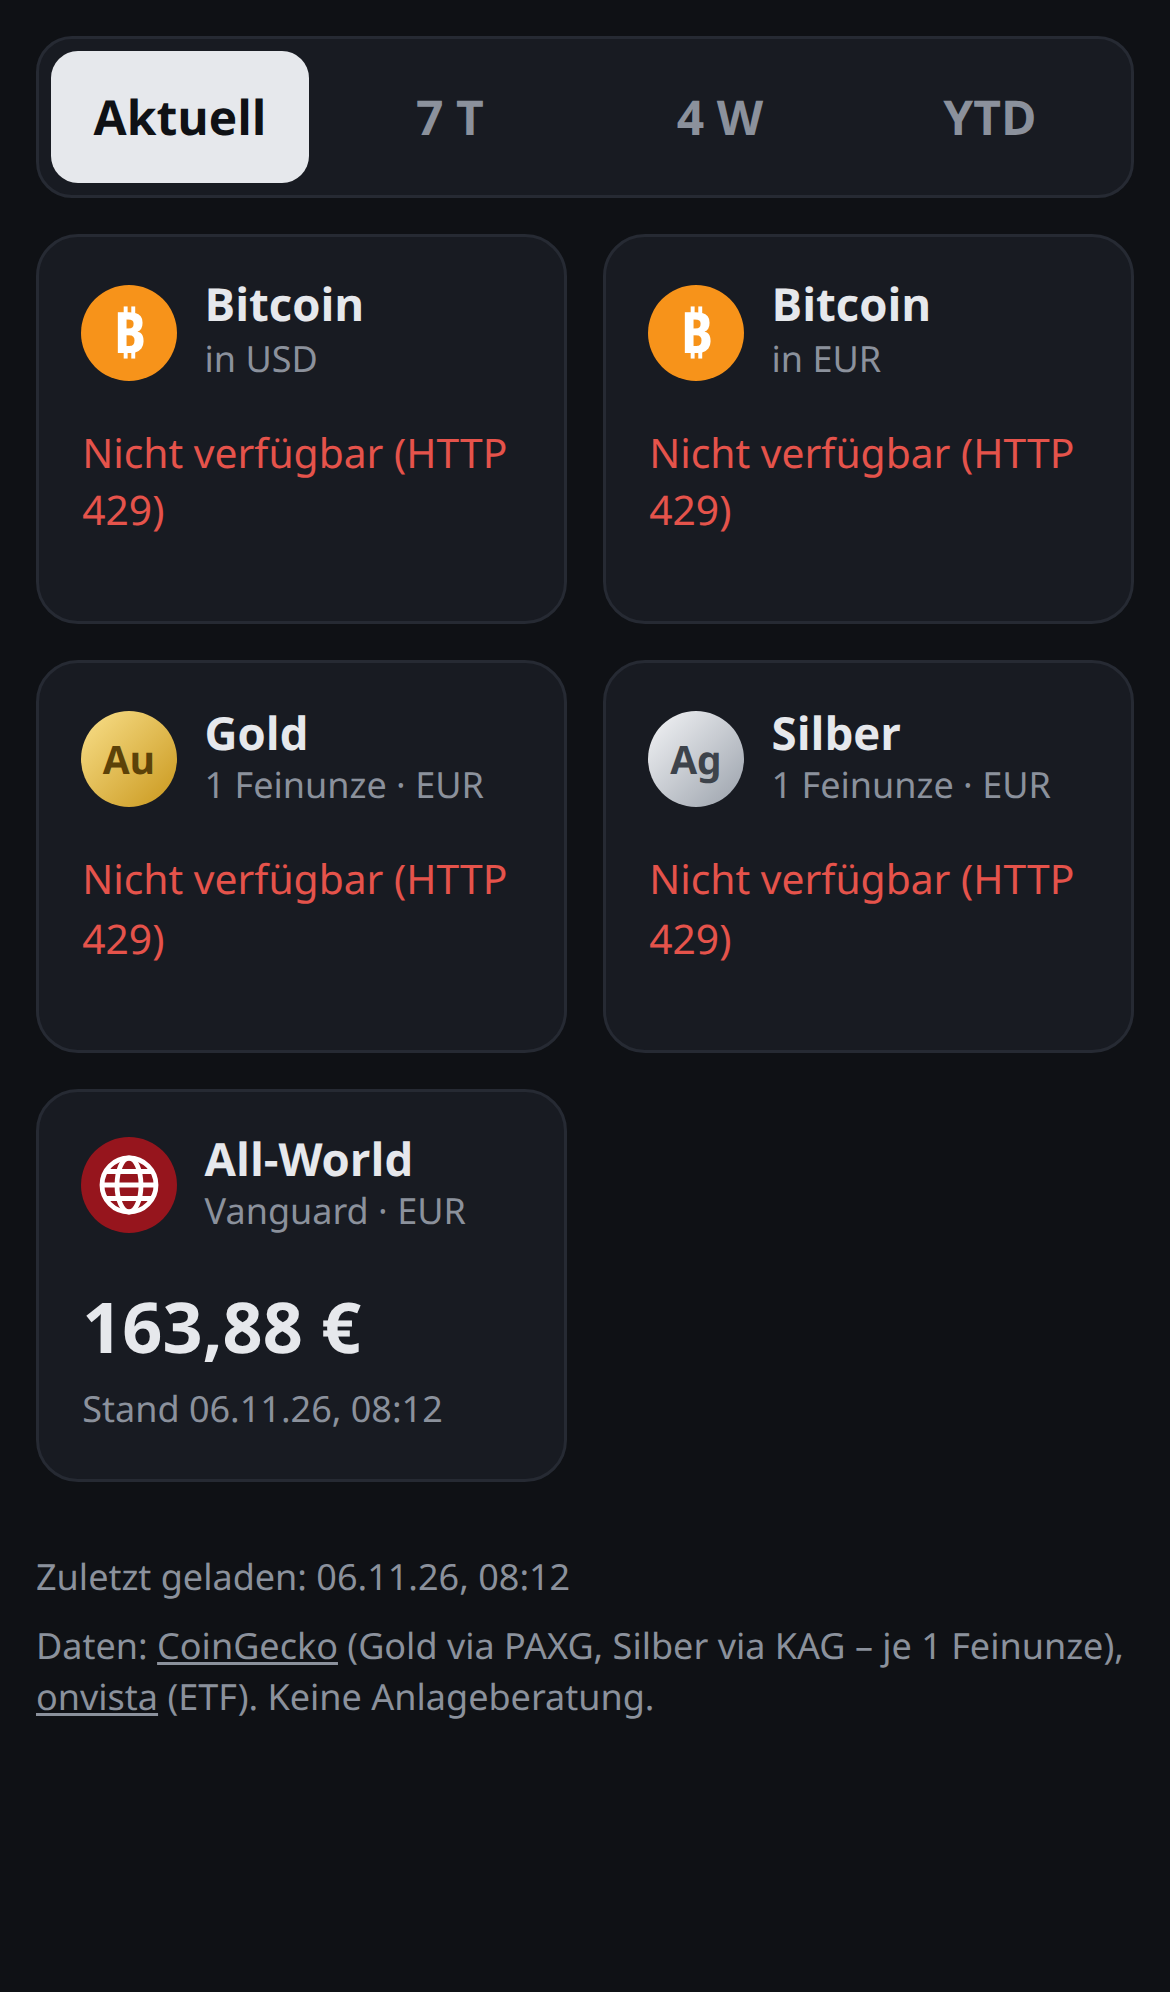
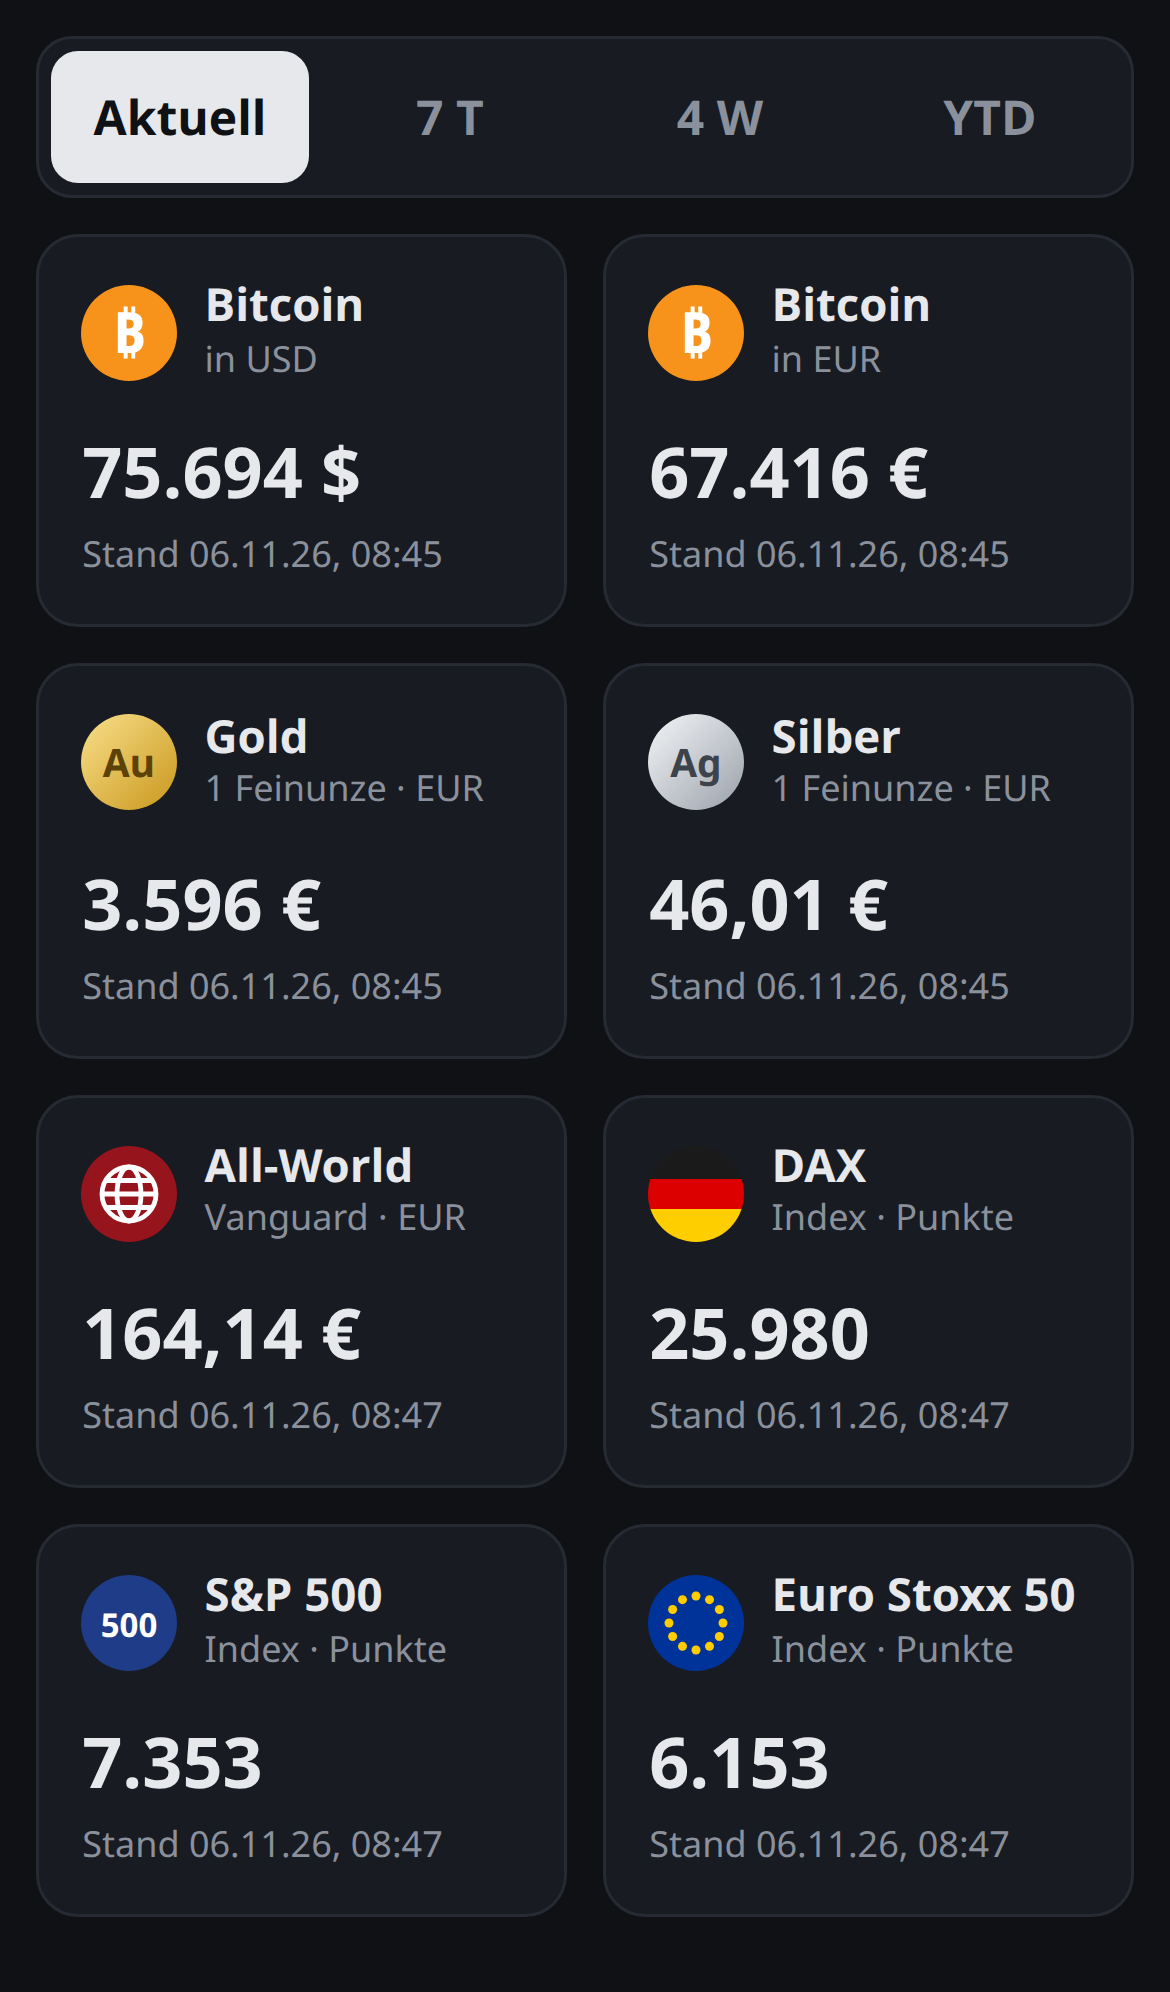
Add DAX, S&P 500 and EURO STOXX 50 index tiles
Index snapshots come from the same onvista endpoint as the ETF
(indices/ISIN:<isin>/snapshot, CORS-enabled, same performance
fields). Index levels are shown in points without a currency symbol.
Spec, design, README and screenshots updated for eight tiles.

diff --git a/app.js b/app.js
@@ -1,7 +1,7 @@
 'use strict';
 
 const COINGECKO = 'https://api.coingecko.com/api/v3';
-const ONVISTA_ETF = 'https://api.onvista.de/api/v1/funds/ISIN:IE00BK5BQT80/snapshot';
+const ONVISTA = 'https://api.onvista.de/api/v1';
 const DAY = 24 * 60 * 60 * 1000;
 const REFRESH_MS = 5 * 60 * 1000;
 
@@ -19,6 +19,16 @@ const LOGOS = {
   world: `<svg viewBox="0 0 32 32" aria-hidden="true"><circle cx="16" cy="16" r="16" fill="#96151d"/>
     <g fill="none" stroke="#fff" stroke-width="1.6"><circle cx="16" cy="16" r="9"/><ellipse cx="16" cy="16" rx="4" ry="9"/>
     <path d="M7 16h18M8.5 11.5h15M8.5 20.5h15"/></g></svg>`,
+  dax: `<svg viewBox="0 0 32 32" aria-hidden="true"><clipPath id="de"><circle cx="16" cy="16" r="16"/></clipPath>
+    <g clip-path="url(#de)"><path fill="#1a1a1a" d="M0 0h32v11H0z"/><path fill="#dd0000" d="M0 11h32v10H0z"/>
+    <path fill="#ffce00" d="M0 21h32v11H0z"/></g></svg>`,
+  spx: `<svg viewBox="0 0 32 32" aria-hidden="true"><circle cx="16" cy="16" r="16" fill="#1f3c88"/>
+    <text x="16" y="20.5" text-anchor="middle" font-size="11" font-weight="700" fill="#fff" font-family="system-ui, sans-serif">500</text></svg>`,
+  stoxx: `<svg viewBox="0 0 32 32" aria-hidden="true"><circle cx="16" cy="16" r="16" fill="#003399"/>
+    <g fill="#ffcc00">${Array.from({ length: 12 }, (_, i) => {
+      const a = (i * Math.PI) / 6;
+      return `<circle cx="${(16 + 9 * Math.sin(a)).toFixed(2)}" cy="${(16 - 9 * Math.cos(a)).toFixed(2)}" r="1.5"/>`;
+    }).join('')}</g></svg>`,
 };
 
 const TILES = [
@@ -26,7 +36,10 @@ const TILES = [
   { name: 'Bitcoin', unit: 'in EUR', logo: LOGOS.btc, load: () => coinQuote('bitcoin', 'eur') },
   { name: 'Gold', unit: '1 Feinunze · EUR', logo: LOGOS.gold, load: () => coinQuote('pax-gold', 'eur') },
   { name: 'Silber', unit: '1 Feinunze · EUR', logo: LOGOS.silver, load: () => coinQuote('kinesis-silver', 'eur') },
-  { name: 'All-World', unit: 'Vanguard · EUR', logo: LOGOS.world, load: etfQuote },
+  { name: 'All-World', unit: 'Vanguard · EUR', logo: LOGOS.world, load: () => onvistaQuote('funds', 'IE00BK5BQT80') },
+  { name: 'DAX', unit: 'Index · Punkte', logo: LOGOS.dax, load: () => onvistaQuote('indices', 'DE0008469008') },
+  { name: 'S&amp;P 500', unit: 'Index · Punkte', logo: LOGOS.spx, load: () => onvistaQuote('indices', 'US78378X1072') },
+  { name: 'Euro Stoxx 50', unit: 'Index · Punkte', logo: LOGOS.stoxx, load: () => onvistaQuote('indices', 'EU0009658145') },
 ];
 
 const VIEW_LABELS = { w1: '7 Tagen', w4: '4 Wochen', ytd: 'Jahresbeginn' };
@@ -68,10 +81,11 @@ async function coinQuote(id, currency) {
   };
 }
 
-async function etfQuote() {
-  const { quote, cnPerformance } = await getJson(ONVISTA_ETF);
+// kind is the onvista instrument type ('funds', 'indices'); index levels are points, not a currency.
+async function onvistaQuote(kind, isin) {
+  const { quote, cnPerformance } = await getJson(`${ONVISTA}/${kind}/ISIN:${isin}/snapshot`);
   return {
-    currency: quote.isoCurrency,
+    currency: kind === 'indices' ? null : quote.isoCurrency,
     current: quote.last,
     updated: Date.parse(quote.datetimeLast),
     w1: cnPerformance.performanceRelW1,
@@ -82,8 +96,7 @@ async function etfQuote() {
 
 function formatPrice(value, currency) {
   return new Intl.NumberFormat('de-DE', {
-    style: 'currency',
-    currency,
+    ...(currency && { style: 'currency', currency }),
     maximumFractionDigits: value >= 1000 ? 0 : 2,
   }).format(value);
 }

diff --git a/index.html b/index.html
@@ -23,7 +23,7 @@
     <p id="status">Lade Kurse …</p>
     <p>
       Daten: <a href="https://www.coingecko.com" rel="noopener">CoinGecko</a> (Gold via PAXG, Silber via KAG – je 1 Feinunze),
-      <a href="https://www.onvista.de/etf/Vanguard-FTSE-All-World-UCITS-ETF-USD-Acc-ETF-IE00BK5BQT80" rel="noopener">onvista</a> (ETF).
+      <a href="https://www.onvista.de/etf/Vanguard-FTSE-All-World-UCITS-ETF-USD-Acc-ETF-IE00BK5BQT80" rel="noopener">onvista</a> (ETF, Indizes).
       Keine Anlageberatung.
     </p>
   </footer>

diff --git a/openspec/changes/add-market-dashboard/specs/market-dashboard/spec.md b/openspec/changes/add-market-dashboard/specs/market-dashboard/spec.md
@@ -1,7 +1,7 @@
 ## ADDED Requirements
 
 ### Requirement: Asset tiles
-The page SHALL show exactly five tiles in this order, each with a logo, a name and a subtitle:
+The page SHALL show exactly eight tiles in this order, each with a logo, a name and a subtitle:
 
 | # | Name | Subtitle | Logo | Currency |
 |---|---|---|---|---|
@@ -10,12 +10,15 @@ The page SHALL show exactly five tiles in this order, each with a logo, a name a
 | 3 | Gold | 1 Feinunze · EUR | gold circle with "Au" | EUR |
 | 4 | Silber | 1 Feinunze · EUR | silver circle with "Ag" | EUR |
 | 5 | All-World | Vanguard · EUR | globe icon, dark red circle | EUR |
+| 6 | DAX | Index · Punkte | circle in black, red, gold bands | points |
+| 7 | S&P 500 | Index · Punkte | dark blue circle with "500" | points |
+| 8 | Euro Stoxx 50 | Index · Punkte | blue circle with a ring of 12 yellow dots | points |
 
 Logos SHALL be inline SVG (no external image requests, no third-party trademark files).
 
 #### Scenario: Page load
 - **WHEN** the page is opened
-- **THEN** five tiles are shown immediately with logo, name, subtitle and a loading placeholder ("…")
+- **THEN** eight tiles are shown immediately with logo, name, subtitle and a loading placeholder ("…")
 - **AND** the placeholders are replaced once the data has loaded
 
 ### Requirement: View switcher
@@ -26,7 +29,8 @@ tiles for that view without fetching data again. Buttons SHALL use `role="tab"` 
 #### Scenario: Current view
 - **WHEN** "Aktuell" is selected
 - **THEN** each tile shows the current price in its currency (de-DE, e.g. `67.134 €`, `75.388 $`,
-  `46,01 €`; no decimals at or above 1000, two decimals below)
+  `46,01 €`; no decimals at or above 1000, two decimals below); index levels as plain numbers without
+  a currency symbol (e.g. `25.980`)
 - **AND** a small line "Stand <dd.mm.yy, hh:mm>" with the quote's timestamp
 
 #### Scenario: Period view
@@ -47,7 +51,7 @@ reference is the last daily history price at or before:
 - 4 W: current timestamp minus 28 days
 - YTD: 1 January 00:00 UTC of the current year (the previous year's closing price)
 
-For the ETF the page SHALL use the precomputed percentages from the onvista snapshot.
+For the ETF and the indices the page SHALL use the precomputed percentages from the onvista snapshot.
 
 #### Scenario: Year to date
 - **WHEN** the current date is 2026-11-06 and the history contains a price for 2026-01-01T00:00Z
@@ -60,6 +64,9 @@ The page SHALL load data in the browser, without a backend or API keys, from:
 - Gold: CoinGecko `coins/pax-gold/market_chart?vs_currency=eur&days=365&interval=daily`
 - Silver: CoinGecko `coins/kinesis-silver/market_chart?vs_currency=eur&days=365&interval=daily`
 - ETF: onvista `funds/ISIN:IE00BK5BQT80/snapshot`
+- DAX: onvista `indices/ISIN:DE0008469008/snapshot`
+- S&P 500: onvista `indices/ISIN:US78378X1072/snapshot`
+- EURO STOXX 50: onvista `indices/ISIN:EU0009658145/snapshot`
 
 The page SHALL NOT call the onvista price-history endpoint.
 
@@ -83,11 +90,11 @@ inside a tile.
 
 #### Scenario: iPhone-sized viewport
 - **WHEN** the page is shown at 390 × 844 px
-- **THEN** tiles appear in a 2-column grid (fifth tile alone in the last row) without horizontal
+- **THEN** tiles appear in a 2-column grid (four rows of two) without horizontal
   scrolling, and tile names and subtitles fit on one line each
 
 ### Requirement: Attribution
-The footer SHALL link CoinGecko and onvista, state that gold and silver are tracked via PAXG and KAG
+The footer SHALL link CoinGecko and onvista (ETF and indices), state that gold and silver are tracked via PAXG and KAG
 (1 troy ounce each), and say "Keine Anlageberatung".
 
 #### Scenario: Footer

diff --git a/openspec/changes/add-market-dashboard/design.md b/openspec/changes/add-market-dashboard/design.md
@@ -13,6 +13,7 @@ on 2026-11-06 and send `Access-Control-Allow-Origin: *`.
 | Gold | CoinGecko `pax-gold` (PAXG, 1 token = 1 oz) | No free keyless CORS spot-metal API with history |
 | Silver | CoinGecko `kinesis-silver` (KAG, 1 token = 1 oz) | Same as gold |
 | ETF | onvista `GET https://api.onvista.de/api/v1/funds/ISIN:IE00BK5BQT80/snapshot` | Yahoo/Stooq have no CORS or block bots |
+| DAX, S&P 500, EURO STOXX 50 | onvista `GET .../indices/ISIN:<isin>/snapshot` (`DE0008469008`, `US78378X1072`, `EU0009658145`) | Same endpoint shape and performance fields as the ETF; checked 2026-11-06 |
 
 Rejected alternatives:
 - Yahoo Finance chart API: no CORS, HTTP 429.
@@ -29,7 +30,7 @@ CoinGecko `market_chart` returns `{ "prices": [[timestampMs, price], ...] }`, as
 current price and timestamp, so no extra `simple/price` call is needed (4 CoinGecko requests per
 refresh).
 
-onvista snapshot fields:
+onvista snapshot fields (same for `funds` and `indices`):
 - `quote.last` — current price
 - `quote.isoCurrency` — `"EUR"`
 - `quote.datetimeLast` — ISO timestamp
@@ -39,11 +40,15 @@ onvista snapshot fields:
 
 onvista only provides 4 weeks (not 31 days), so "4 W" = 28 days for all assets.
 
+Index snapshots report `isoCurrency` (EUR or USD), but an index level is in points, so index quotes are
+normalized with `currency: null` and formatted as a plain number. Outside trading hours onvista returns
+an indicative quote from a bank (e.g. "UBS Indikation"); the timestamp shows its time.
+
 ### Normalized quote
 ```js
 { currency: 'EUR', current: 67134.2, updated: 1793951706323, w1: -3.2, w4: -11.8, ytd: -9.92 }
 ```
-`w1`, `w4`, `ytd` are percentages or `null`.
+`w1`, `w4`, `ytd` are percentages or `null`. `currency` is `null` for indices (points).
 
 ### Calculation helpers
 ```js
@@ -83,7 +88,7 @@ Optional: `[[headers]]` with a short `Cache-Control` for JS/CSS and a `Content-S
 ## Risks / Trade-offs
 - CoinGecko rate limit (HTTP 429) on frequent reloads or shared IPs → tile shows an error until the
   next refresh.
-- onvista may change or block the snapshot endpoint → only the ETF tile breaks.
+- onvista may change or block the snapshot endpoint → the ETF and index tiles break, the CoinGecko tiles keep working.
 - Token prices (PAXG, KAG) can deviate slightly from spot.
 - CoinGecko public history is capped at 365 days; YTD always fits.
 

diff --git a/openspec/changes/add-market-dashboard/proposal.md b/openspec/changes/add-market-dashboard/proposal.md
@@ -1,17 +1,17 @@
 # Change: Add mobile market dashboard
 
 ## Why
-A quick, phone-friendly way to check how Bitcoin, gold, silver and a world-equity ETF are doing right
-now and over the last week, the last four weeks and the year so far, without logging into a broker or
-running a backend.
+A quick, phone-friendly way to check how Bitcoin, gold, silver, a world-equity ETF and the main stock
+indices are doing right now and over the last week, the last four weeks and the year so far, without
+logging into a broker or running a backend.
 
 ## What Changes
 - Add a static landing page (`index.html`, `style.css`, `app.js`) at the repository root.
-- Five tiles, two per row: Bitcoin in USD, Bitcoin in EUR, gold (EUR/oz), silver (EUR/oz),
-  Vanguard FTSE All-World ETF (EUR). Each tile has a logo.
+- Eight tiles, two per row: Bitcoin in USD, Bitcoin in EUR, gold (EUR/oz), silver (EUR/oz),
+  Vanguard FTSE All-World ETF (EUR), DAX, S&P 500 and EURO STOXX 50 (points). Each tile has a logo.
 - A sticky segmented control with four buttons, "Aktuell", "7 T", "4 W", "YTD", that switches what all
   tiles show: the current price, or the percentage change over the selected period.
-- Data from CoinGecko (Bitcoin, PAX Gold, Kinesis Silver) and onvista (ETF snapshot), fetched in the
+- Data from CoinGecko (Bitcoin, PAX Gold, Kinesis Silver) and onvista (ETF and index snapshots), fetched in the
   browser, refreshed every 5 minutes and when the tab becomes visible again.
 - `netlify.toml` serving the repository root without a build.
 - README with data sources, limitations, local run instructions and screenshots.

diff --git a/openspec/project.md b/openspec/project.md
@@ -3,7 +3,8 @@
 ## Purpose
 hodl-helper is a public, static, mobile-first web page that shows current prices and recent
 performance for a small personal watchlist: Bitcoin (USD and EUR), gold and silver (EUR per troy
-ounce) and the Vanguard FTSE All-World UCITS ETF (EUR). It is deployed to Netlify.
+ounce), the Vanguard FTSE All-World UCITS ETF (EUR) and the DAX, S&P 500 and EURO STOXX 50 indices
+(points). It is deployed to Netlify.
 
 ## Tech Stack
 - Plain HTML, CSS and vanilla JavaScript (ES2022). No framework, no bundler, no build step, no npm
@@ -41,7 +42,7 @@ ounce) and the Vanguard FTSE All-World UCITS ETF (EUR). It is deployed to Netlif
 ## Important Constraints
 - Must work without a backend and without secrets (repository is public).
 - CoinGecko public API: no key, history limited to the last 365 days, rate limit of a few requests per
-  minute. Keep requests per refresh small (currently 4), refresh no more than every 5 minutes.
+  minute. Keep CoinGecko requests per refresh small (currently 4), refresh no more than every 5 minutes.
 - onvista's API is undocumented and may change. Its terms restrict content usage; the price-history
   endpoint returns HTTP 403 and must not be used. Only the snapshot endpoint is used. Acceptable for a
   personal dashboard; the page credits onvista and states "Keine Anlageberatung".

diff --git a/openspec/changes/add-market-dashboard/tasks.md b/openspec/changes/add-market-dashboard/tasks.md
@@ -9,8 +9,8 @@
 - [x] 2.1 `getJson(url)` that throws on non-2xx
 - [x] 2.2 `priceAt` and `change` helpers
 - [x] 2.3 `coinQuote(id, currency)` → normalized quote (w1 = 7 d, w4 = 28 d, ytd = since 1 Jan UTC)
-- [x] 2.4 `etfQuote()` for the onvista snapshot → normalized quote
-- [x] 2.5 `TILES` config with five tiles and inline SVG logos
+- [x] 2.4 `onvistaQuote(kind, isin)` for the onvista snapshot (ETF and indices) → normalized quote
+- [x] 2.5 `TILES` config with eight tiles and inline SVG logos
 - [x] 2.6 Render current and period views, per-tile error state, "–" for missing values
 - [x] 2.7 View switching without refetching; `aria-selected` in sync
 - [x] 2.8 Refresh every 5 min and on `visibilitychange` when stale; "Zuletzt geladen" in the footer
@@ -23,5 +23,5 @@
 
 ## 4. Verification
 - [x] 4.1 Check all four views at iPhone size (e.g. Playwright `devices['iPhone 13']`)
-- [x] 4.2 Block `api.onvista.de` and check that only the ETF tile shows an error
+- [x] 4.2 Block `api.onvista.de` and check that only the ETF and index tiles show an error
 - [ ] 4.3 Compare numbers against coingecko.com and onvista.de

diff --git a/README.md b/README.md
@@ -9,6 +9,7 @@ Oben wählen vier Buttons die Ansicht: **Aktuell** (Preis), **7 T**, **4 W**, **
 | Gold (EUR, 1 oz) | CoinGecko, Token PAX Gold (PAXG) | 1 Token = 1 Feinunze, weicht minimal vom Spotpreis ab |
 | Silber (EUR, 1 oz) | CoinGecko, Token Kinesis Silver (KAG) | 1 Token = 1 Feinunze, weicht minimal vom Spotpreis ab |
 | Vanguard FTSE All-World (VWCE) | onvista Snapshot-API | Performance von onvista vorberechnet |
+| DAX, S&P 500, Euro Stoxx 50 | onvista Snapshot-API | Stand in Punkten; außerhalb der Handelszeiten Indikation der Banken |
 
 Beide APIs senden `Access-Control-Allow-Origin: *`, der Browser ruft sie direkt auf.
 Aktualisierung alle 5 Minuten und beim Zurückkehren in den Tab.
